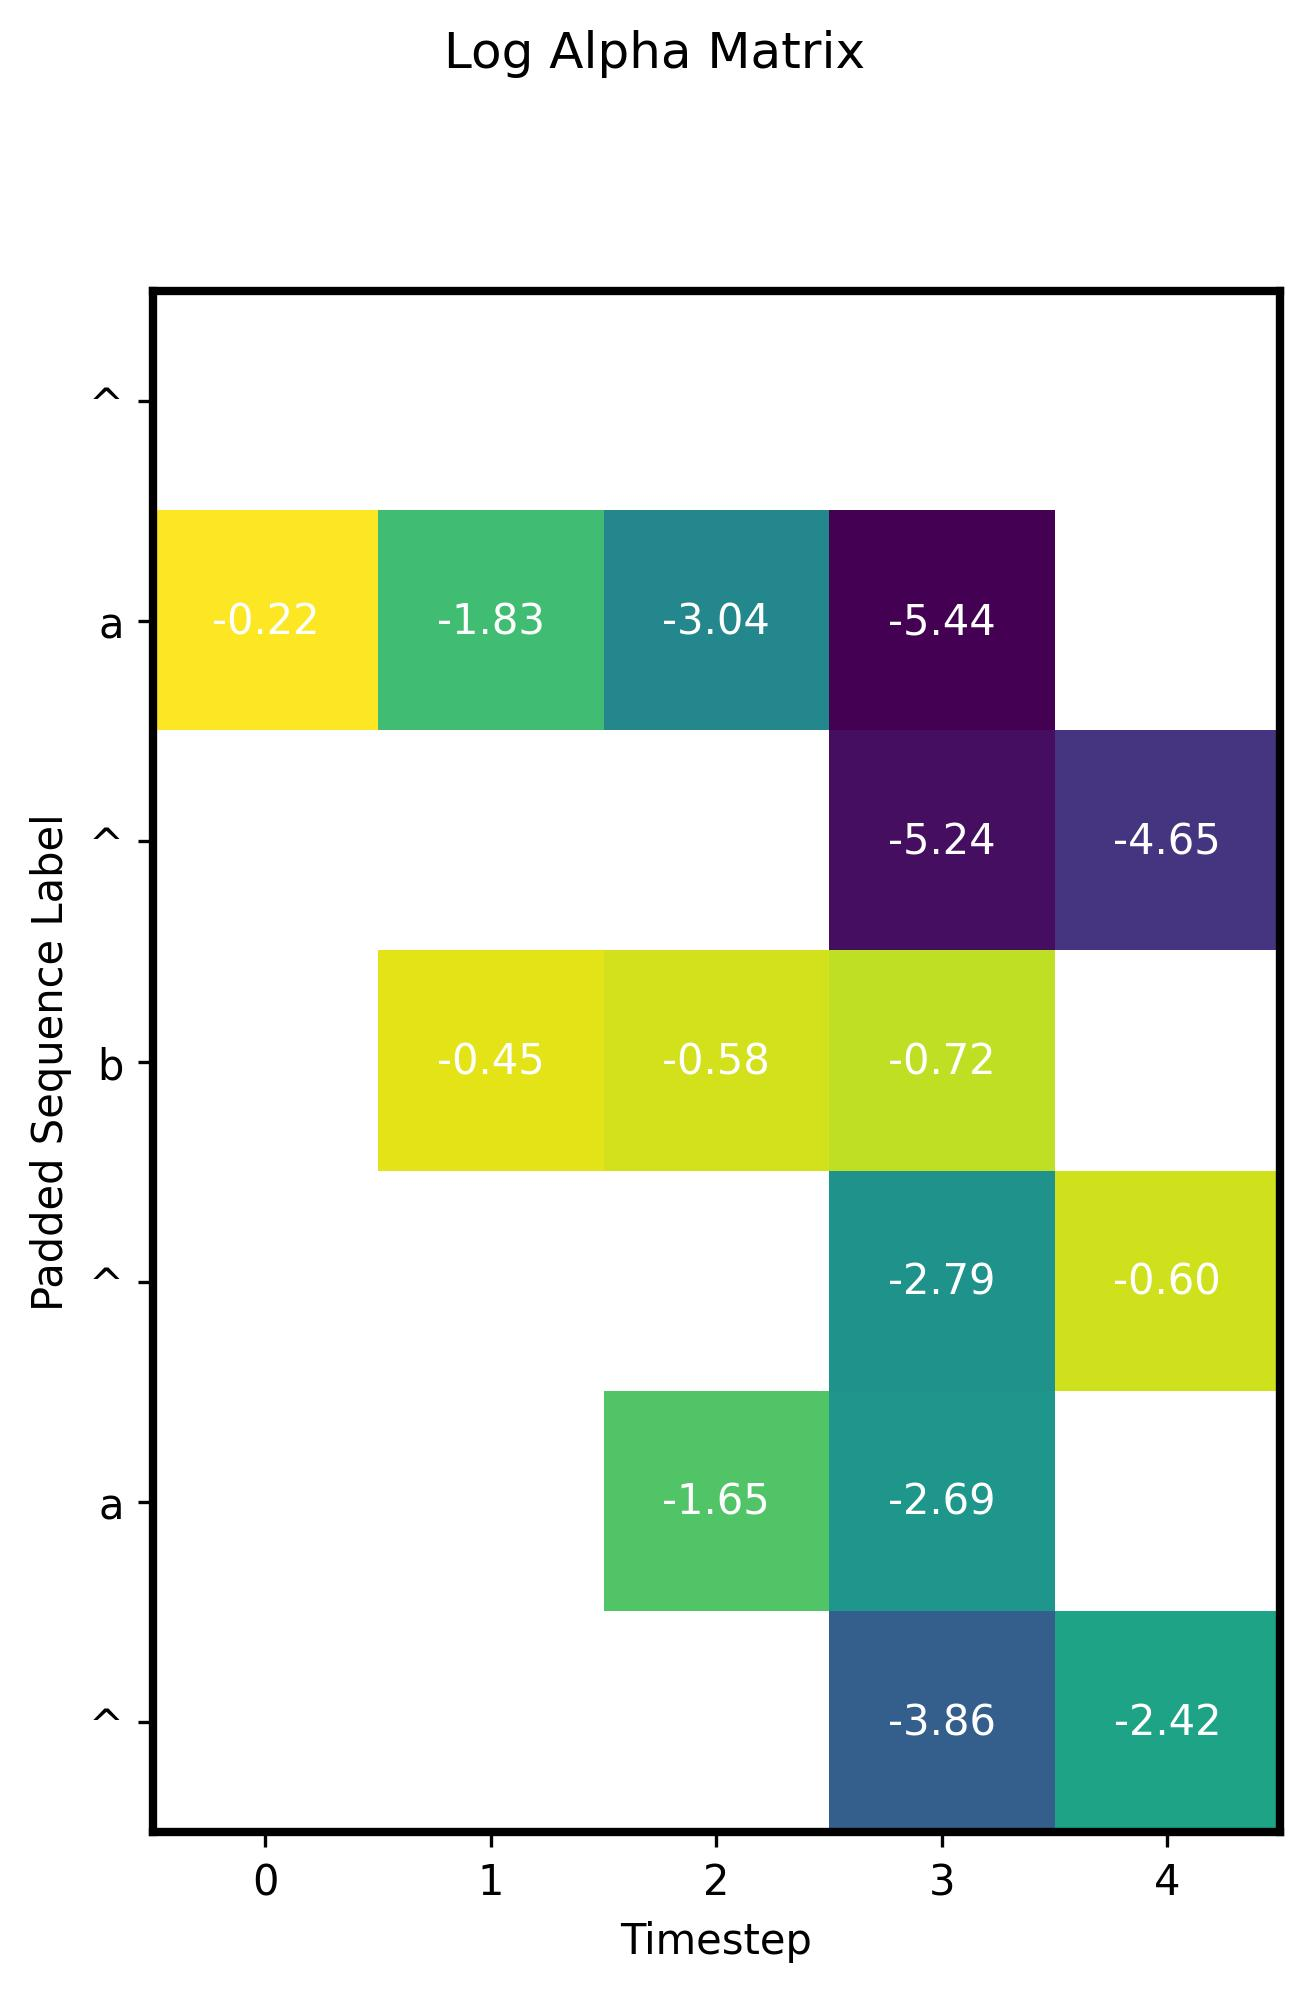
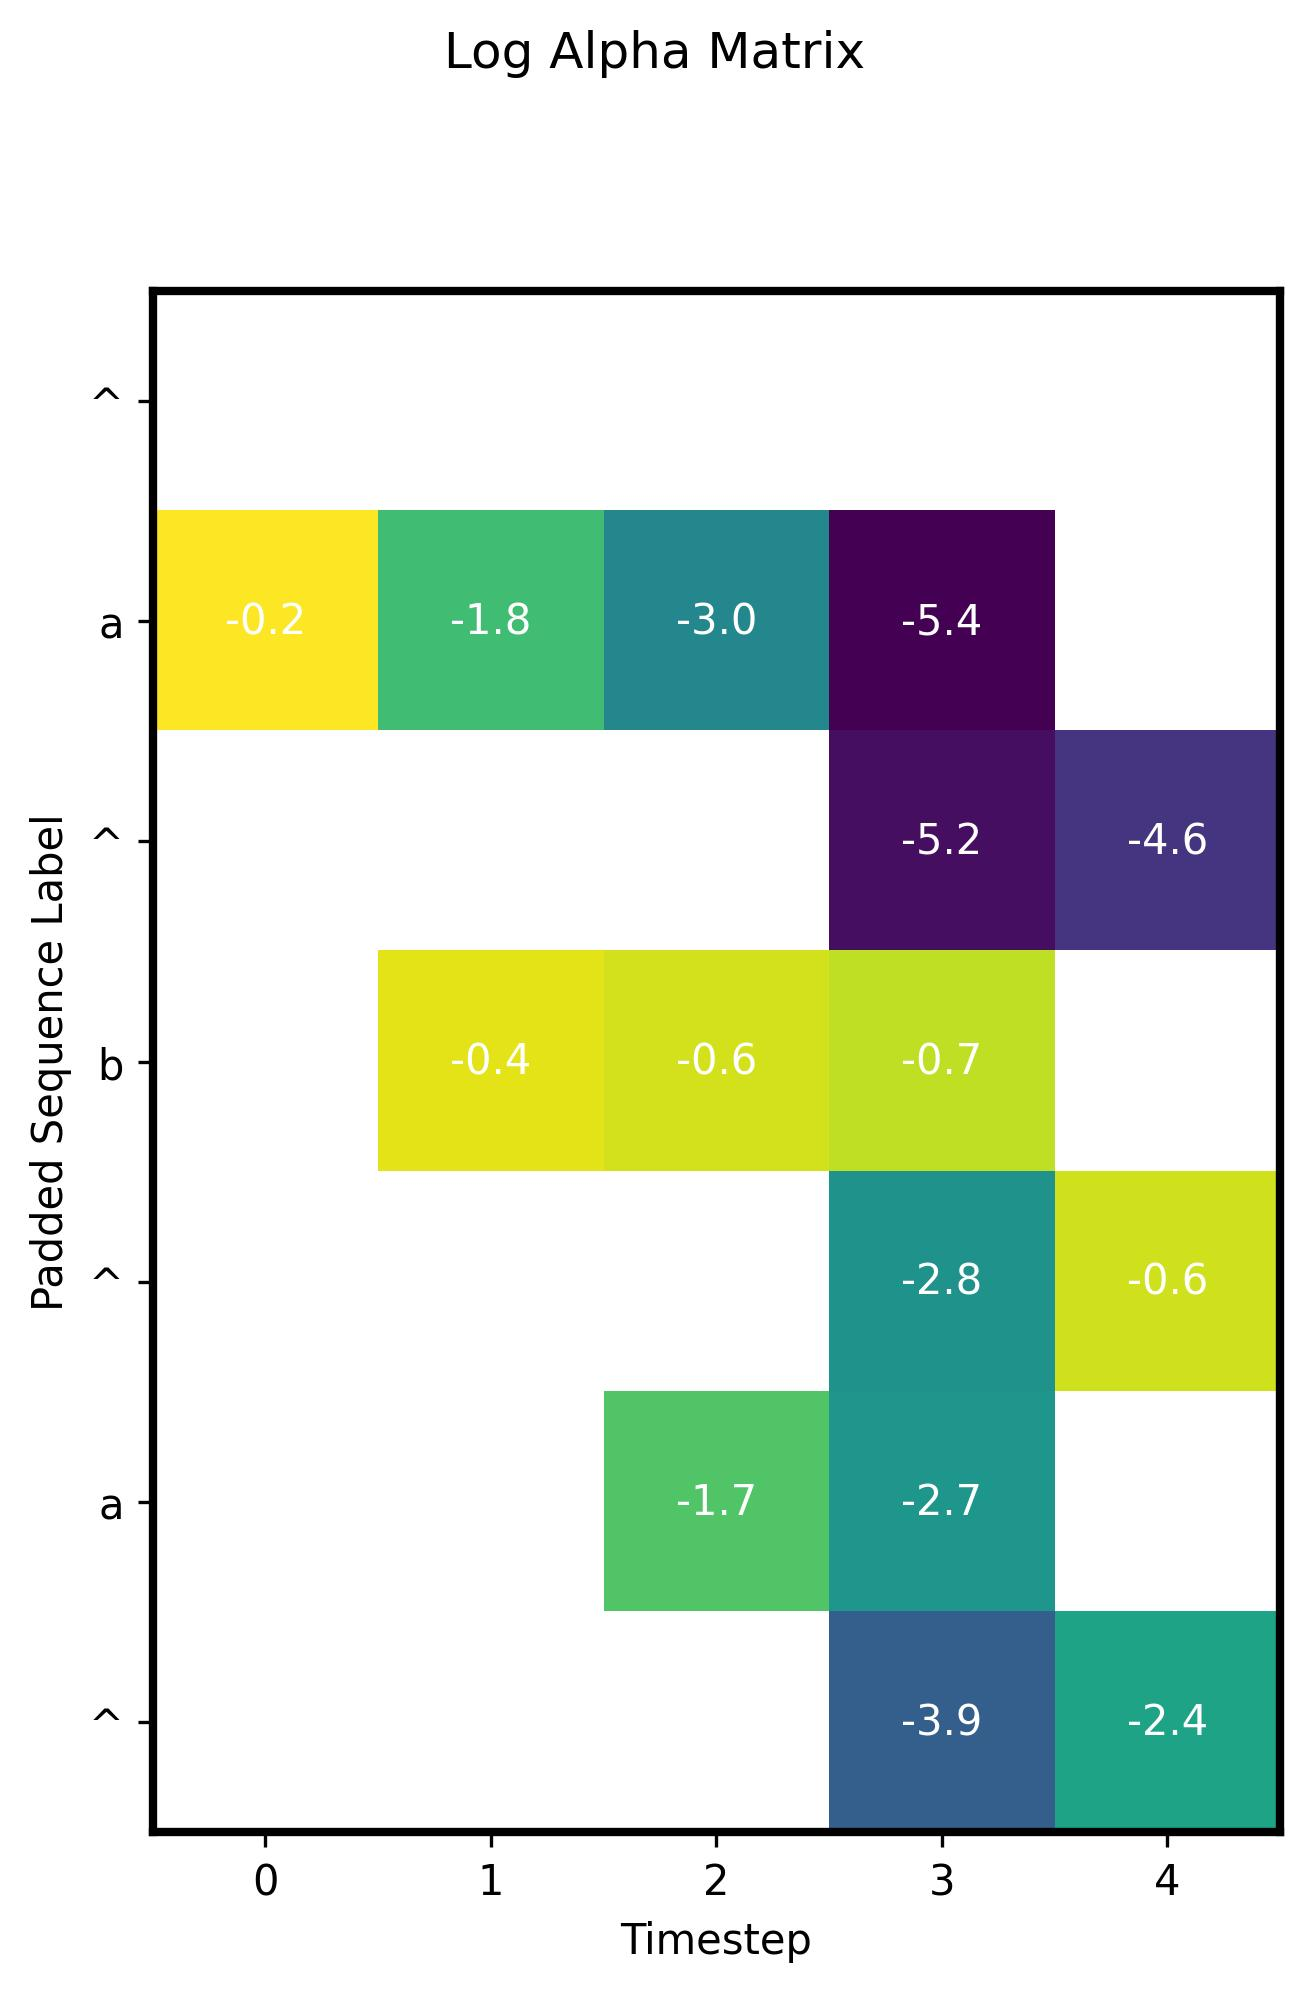
7 plot improvement

diff --git a/forward_algorithm.py b/forward_algorithm.py
@@ -104,14 +104,14 @@ class CTC:
 
             for (i1, j1), (i2, j2) in zip(self.best_path_coordinates[:-1], self.best_path_coordinates[1:]):
                 plt.arrow(i1, j1, i2 - i1, j2 - j1, color='red', head_length=0.2, head_width=0.2, length_includes_head=True)
-                plt.text(i1, j1, f'{transpose_log_alpha_matrix[j1, i1]:.2f}', ha='center', va='center', color='white')
+                plt.text(i1, j1, f'{transpose_log_alpha_matrix[j1, i1]:.1f}', ha='center', va='center', color='white')
             i, j = self.best_path_coordinates[-1]
-            plt.text(i, j, f'{transpose_log_alpha_matrix[j, i]:.2f}', ha='center', va='center', color='white')
+            plt.text(i, j, f'{transpose_log_alpha_matrix[j, i]:.1f}', ha='center', va='center', color='white')
         else:
             rows, cols = transpose_log_alpha_matrix.shape
             for i in range(rows):
                 for j in range(cols):
-                    plt.text(j, i, f'{transpose_log_alpha_matrix[i, j]:.2f}', ha='center', va='center', color='white')
+                    plt.text(j, i, f'{transpose_log_alpha_matrix[i, j]:.1f}', ha='center', va='center', color='white')
 
         plt.tight_layout(pad=3.0)
         plt.savefig(os.path.join(BASE_DIR, filename), bbox_inches='tight', dpi=300)
